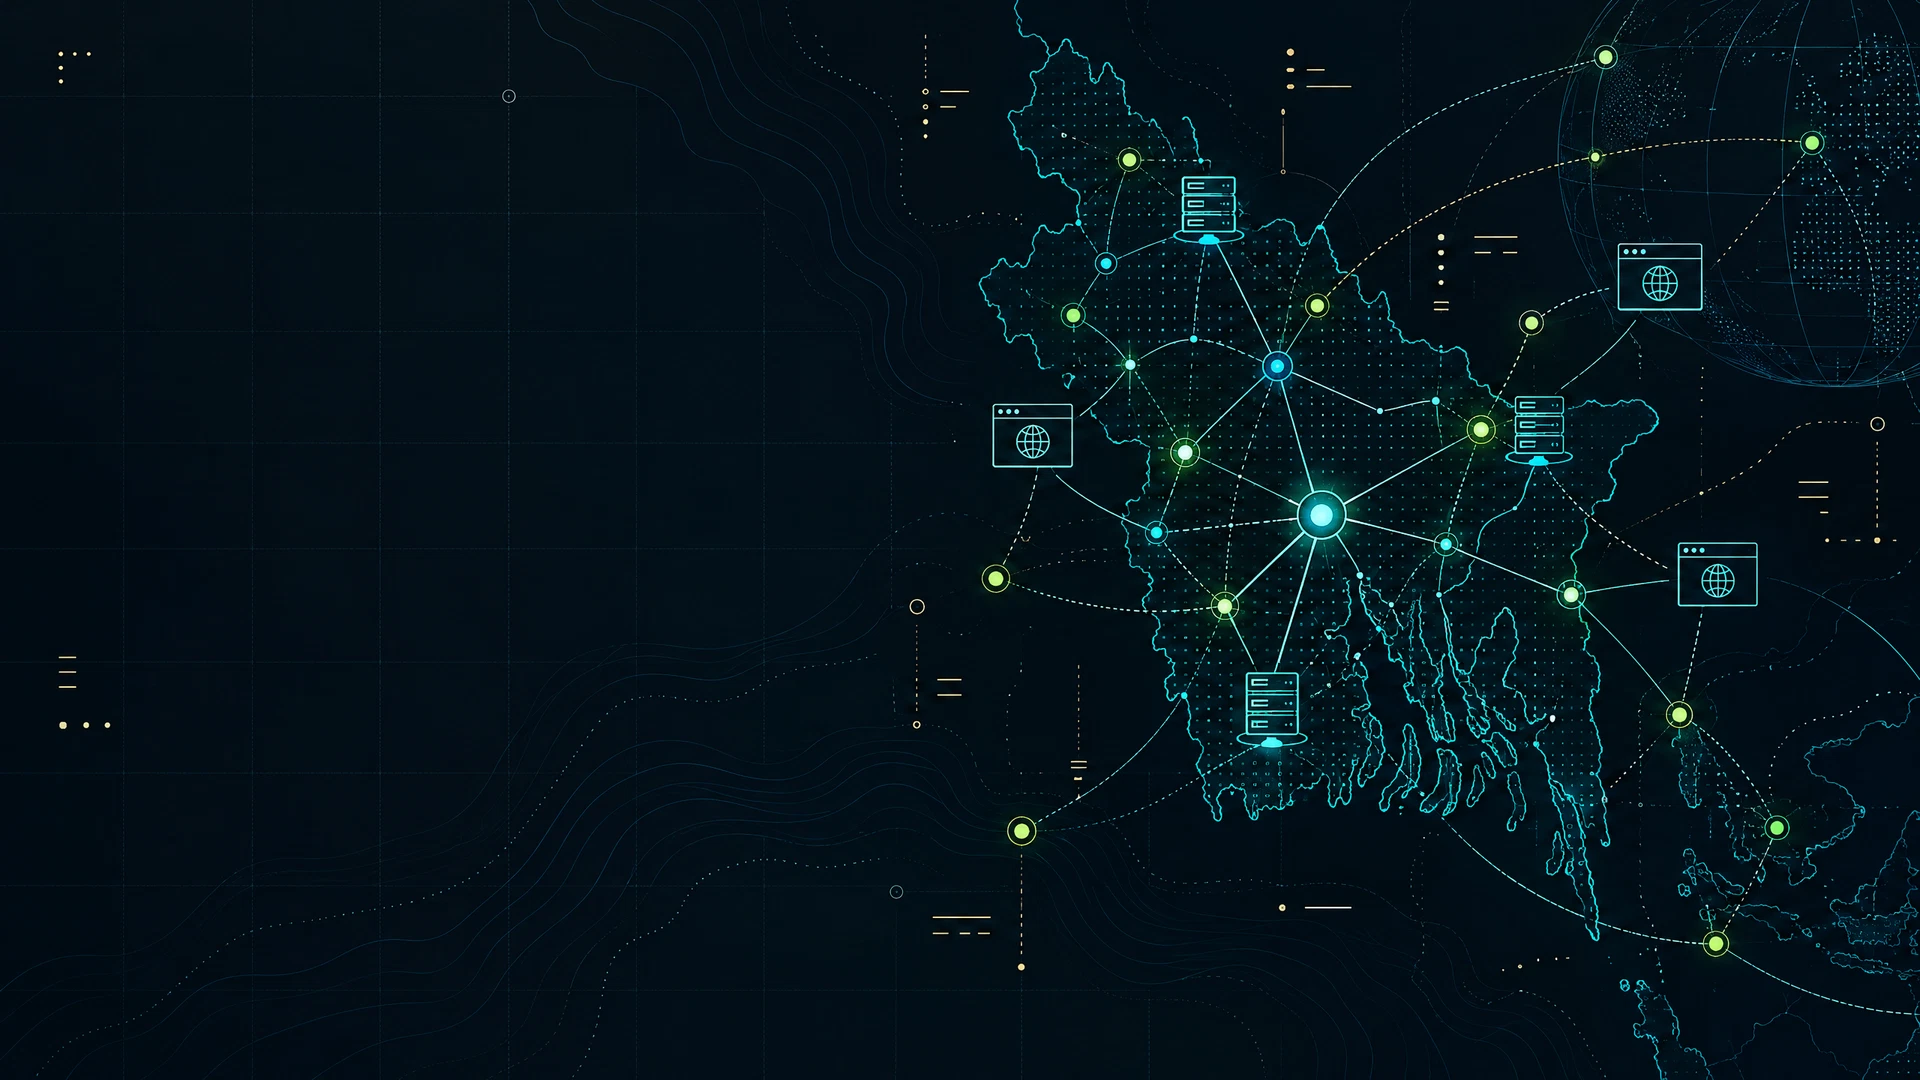
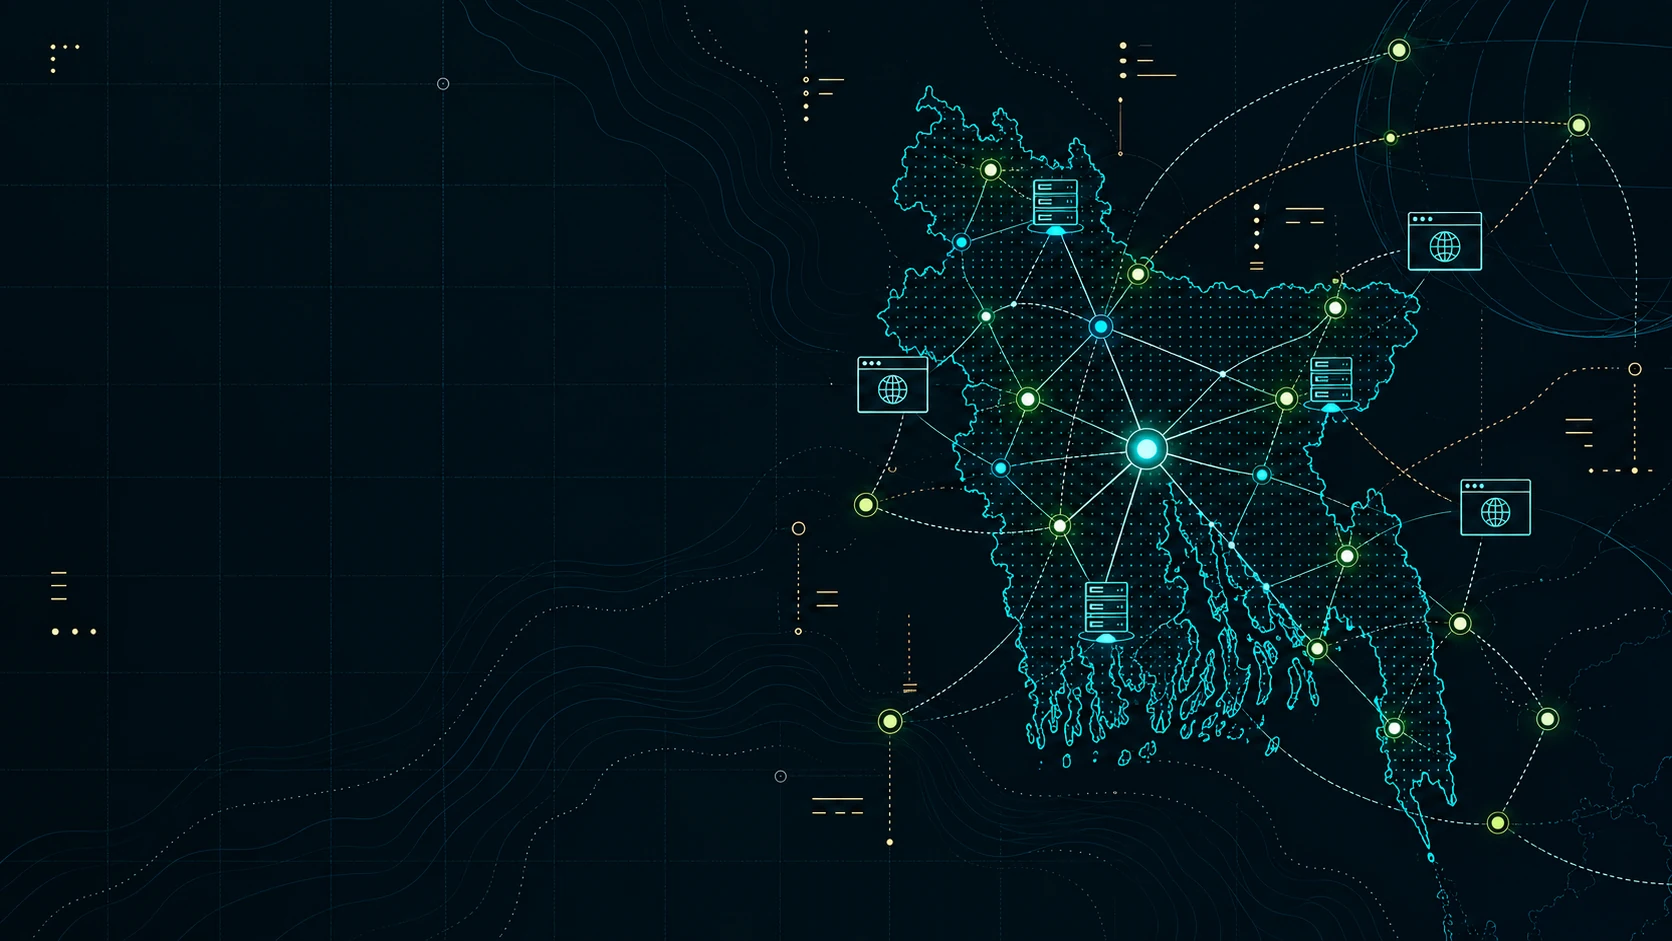
Use uploaded Bangladesh network map as hero image

diff --git a/app.js b/app.js
@@ -11,7 +11,7 @@ const articles = [
   {
     slug: 'network-foundations', title: 'নেটওয়ার্কের ভিত্তি: নিজের ল্যাবকে বুঝুন', category: 'ভিত্তি', phase: 'reconnaissance', level: 'শুরু', time: '৮ মিনিট',
     summary: 'IP, port, DNS ও HTTP—স্ক্যান শুরুর আগে নিজের পরিবেশের মানচিত্র আঁকুন।', tags: ['Networking', 'HTTP', 'Lab setup'],
-    keywords: 'নেটওয়ার্ক বেসিক আইপি পোর্ট ডিএনএস নেটওয়ার্ক অ্যানালাইসিস', image: '/assets/image-1.webp', imageAlt: 'ল্যাব নেটওয়ার্কের বিমূর্ত মানচিত্র', imageLabel: 'FOUNDATION / LOCAL NETWORK',
+    keywords: 'নেটওয়ার্ক বেসিক আইপি পোর্ট ডিএনএস নেটওয়ার্ক অ্যানালাইসিস', image: '/assets/image-1.webp?v=20261013-uploaded-hero1', imageAlt: 'বাংলাদেশের ডিজিটাল নেটওয়ার্ক মানচিত্র', imageLabel: 'FOUNDATION / LOCAL NETWORK',
     refs: [],
     sections: [
       { heading: 'টার্গেট নয়, আগে পরিবেশ', paragraphs: ['নেটওয়ার্ক পরীক্ষা শুরু হয় নিজের মেশিনে কী চলছে তা বোঝা থেকে। IP ঠিকানা হলো নেটওয়ার্কে যন্ত্রের পরিচয়; port হলো সেই যন্ত্রের কোনো সার্ভিসে পৌঁছানোর দরজা। DNS নামকে IP-তে মিলিয়ে দেয়, আর HTTP হলো ওয়েব ব্রাউজার ও সার্ভারের কথোপকথনের নিয়ম।'], bullets: ['শুধু নিজের যন্ত্র বা আলাদা ভার্চুয়াল ল্যাব নির্বাচন করুন।', 'ল্যাবের ঠিকানা, খোলা সার্ভিস এবং পরীক্ষার সময় লিখে রাখুন।', 'Production বা অফিসের নেটওয়ার্ককে অনুমতি ছাড়া ল্যাব ধরে নেবেন না.'] },

diff --git a/index.html b/index.html
@@ -50,7 +50,7 @@
             <div class="hero-footnote"><span class="tiny-lock" aria-hidden="true">◎</span><span>অনুমতি ছাড়া কোনো সিস্টেমে পরীক্ষা নয়।</span></div>
           </div>
           <div class="hero-art" aria-label="একটি নেটওয়ার্ক ম্যাপের ইলাস্ট্রেশন">
-            <img src="/assets/image-1.webp" alt="ল্যাব নেটওয়ার্কে সংযুক্ত নোড ও সার্ভারের বিমূর্ত মানচিত্র">
+            <img src="/assets/image-1.webp?v=20261013-uploaded-hero1" alt="ল্যাব নেটওয়ার্কে সংযুক্ত নোড ও সার্ভারের বিমূর্ত মানচিত্র">
             <div class="art-coordinate"><span>LAB MAP</span><b>01 / 07</b></div>
             <div class="art-caption"><span class="art-line"></span><span>একটি মানচিত্র।<br>একটি নির্দিষ্ট স্কোপ।</span></div>
             <div class="art-stamp">SAFE<br>BY<br>DESIGN</div>
